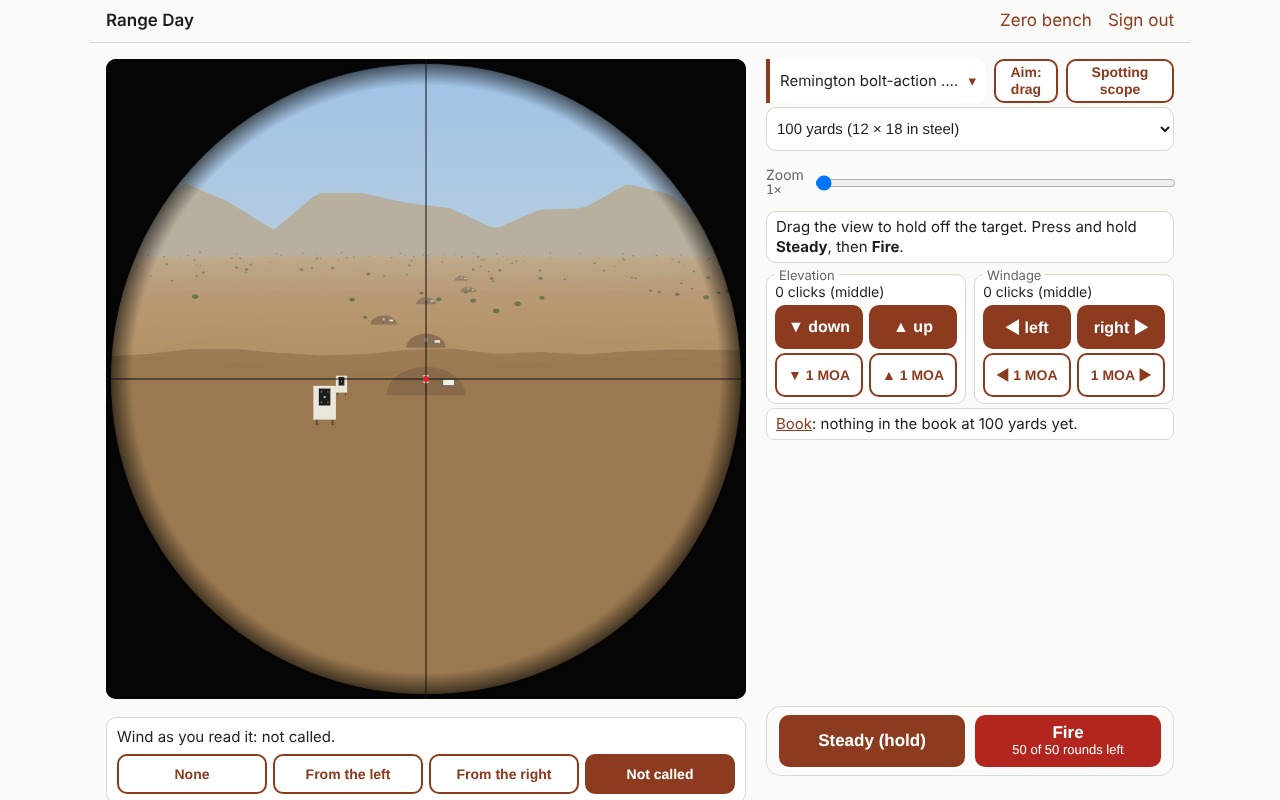
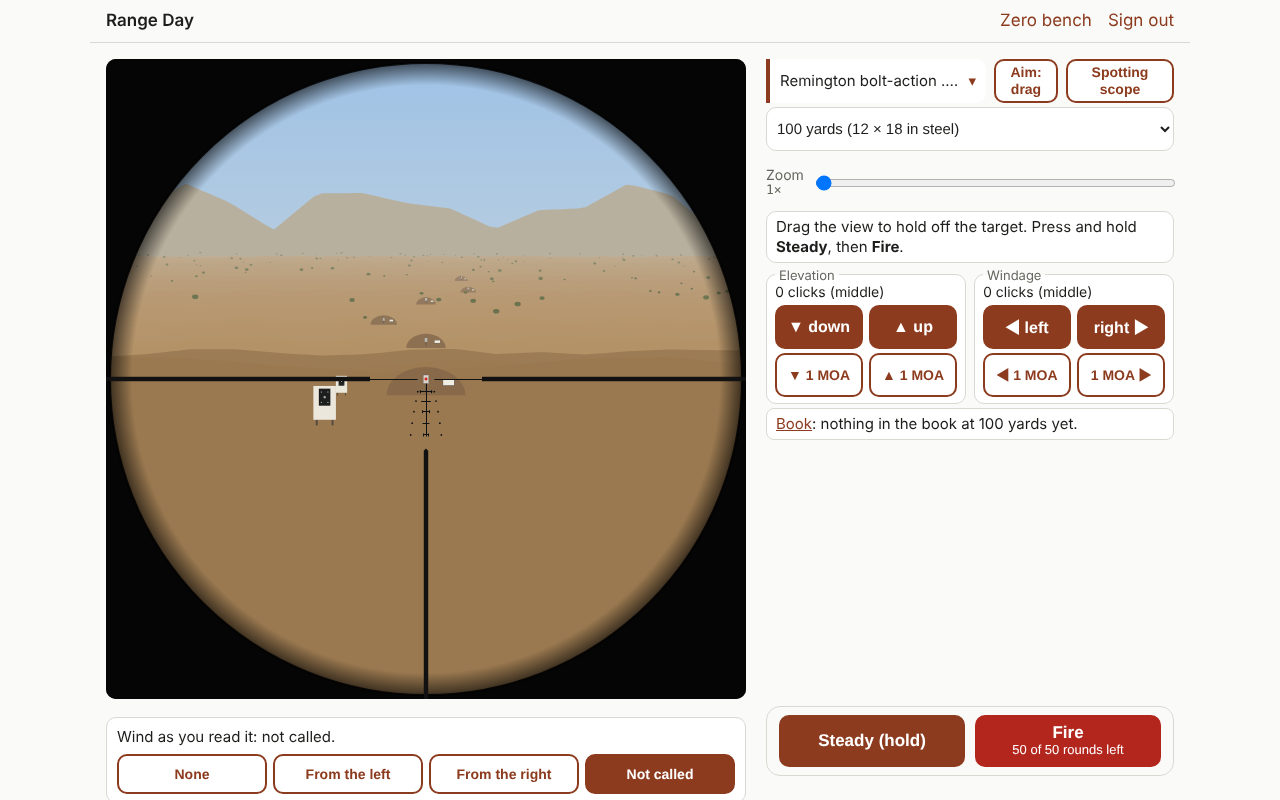
The .22's scope carries the ACSS 22LR G2 reticle, every mark measured from Primary Arms' reticle manual
Claude-Session: https://claude.ai/code/session_018WqoWHd7FdBSYmviRwmy4t

Changed region(s): [[0.3125, 0.5625, 0.3438, 0.8438], [0.0938, 0.4688, 0.3438, 0.5], [0.375, 0.4688, 0.5625, 0.5]]

diff --git a/test/scope22.test.js b/test/scope22.test.js
@@ -37,8 +37,15 @@ test('range-day-eighteen steps 1 to 3: the CLx\'s figures are the maker\'s, each
   assert.equal(S.tubeMm, 30);
   for (const k of ['clickMoa', 'windageClickMoa', 'clicks', 'tubeMm']) assert.match(r[k].source.url, /primaryarms\.com/, `${k} is the maker's figure`);
   for (const end of ['low', 'high']) { assert.ok(r.zoom[end].source.url); assert.ok(r.fovFtAt100[end].source.url); }
-  assert.equal(S.reticle.focalPlane, 'second'); assert.equal(S.reticle.trueAtPower, 6); assert.equal(S.reticle.centerDotMoa, 2);
-  assert.match(S.reticle.marksNotDrawn, /posts/);
+  assert.equal(S.reticle.kind, 'ladder'); assert.equal(S.reticle.focalPlane, 'second'); assert.equal(S.reticle.trueAtPower, 6);
+  // the reticle from the maker's drawing: five stadia going down, each narrower than the one above, its wind dots further out; the
+  // 125- and 175-yard stadia are 4.3 in at their distance (the manual's clay pigeon), the scale every other mark was read at
+  const st = S.reticle.stadia;
+  assert.deepEqual(st.map((x) => x.makerLabel), ['100 y', '125 y', '150 y', '175 y', '200 y']);
+  for (let i = 1; i < st.length; i++) { assert.ok(st[i].belowMoa > st[i - 1].belowMoa && st[i].widthMoa < st[i - 1].widthMoa && st[i].windDotOutMoa > st[i - 1].windDotOutMoa, `stadia ${i}`); }
+  for (const [i, yd] of [[1, 125], [3, 175]]) assert.ok(Math.abs(st[i].widthMoa - 4.3 / (E.inchesPerMoa(yd))) < 0.002, `the ${yd}-yard stadia is 4.3 in at ${yd} yards`);
+  assert.deepEqual(st.map((x) => x.barbell), [true, false, true, false, true]);
+  for (const k of ['centerDotMoa', 'lineMoa', 'postFromMoa', 'stemTopMoa', 'lowerPostTipMoa', 'trueAtPower']) assert.match(r.reticle[k].source.url, /primaryarmsoptics\.com/, `${k} is from the maker's reticle manual`);
   assert.ok(!r.collection, 'not one of the scope collection');
   // the height: the sourced saddle, half the maker's tube, the estimated receiver top
   const own = raw.rifles[RIFLE].scopeMount.ownScope;
@@ -142,7 +149,7 @@ test('range-day-eighteen verify 4: a click is the maker\'s click: 8 clicks up an
   await context.close();
 });
 
-test('range-day-eighteen verify 5: the glass is the maker\'s glass: the drawn view at 1x and 6x is the maker\'s field of view; the 2 MOA dot is 2 MOA at 6x and six times that at 1x (second focal plane)', { skip }, async () => {
+test('range-day-eighteen verify 5: the glass is the maker\'s glass: the drawn view at 1x and 6x is the maker\'s field of view; the reticle is the maker\'s at 6x and six times its angles at 1x (second focal plane): the center dot, and the stadia read off the canvas at 6x', { skip }, async () => {
   const { page, context, errors } = await signedIn();
   await line(page);
   const lines = [];
@@ -153,11 +160,20 @@ test('range-day-eighteen verify 5: the glass is the maker\'s glass: the drawn vi
     lines.push(`at ${m}x: view ${fov.toFixed(3)} MOA across, the maker's ${S.fovFtAt100[end]} ft at 100 yards is ${want.toFixed(3)} MOA`);
     assert.ok(Math.abs(fov - want) < 1e-9, lines[lines.length - 1]);
     const g = await page.evaluate(() => RangeDayLine.geometry);
-    assert.equal(g.crosshair, true);
+    assert.equal(g.reticleKind, 'ladder'); assert.equal(g.sfpScale, S.reticle.trueAtPower / m);
     const dotMoa = g.centerDotPx / g.pxPerMoa;
     assert.ok(Math.abs(dotMoa - (S.reticle.centerDotMoa * S.reticle.trueAtPower) / m) < 1e-9, `the dot at ${m}x covers ${dotMoa} MOA`);
     lines.push(`  the dot covers ${dotMoa.toFixed(2)} MOA (${g.centerDotPx.toFixed(2)} px)`);
   }
+  // at 6x, the stadia read off the reticle drawn alone: each dark row at its depth, as wide as its figure (within 1.5 px)
+  await page.evaluate(() => RangeDayLine.setZoom(6));
+  const probe = await page.evaluate((stadia) => {
+    const c = RangeDayLine.reticleAlone(), g = c.getContext('2d'), k = RangeDayLine.geometry.pxPerMoa, n = c.width, mid = n / 2, px = g.getImageData(0, 0, n, n).data;
+    const dark = (x, y) => { const i = (Math.round(y) * n + Math.round(x)) * 4; return px[i] < 128; };
+    return stadia.map((s) => { const y = mid + s.belowMoa * k; let best = 0; for (const dy of [-1, 0, 1]) { let a = mid, b = mid; while (dark(a - 1, y + dy)) a--; while (dark(b + 1, y + dy)) b++; best = Math.max(best, b - a + 1); } return { want: s.widthMoa * k, got: best }; });
+  }, S.reticle.stadia);
+  for (const [i, p] of probe.entries()) assert.ok(Math.abs(p.got - p.want) <= 1.5, `${S.reticle.stadia[i].makerLabel}: drawn ${p.got} px, the figure ${p.want.toFixed(1)} px`);
+  lines.push(`at 6x the stadia drawn ${probe.map((p) => `${p.got} px (figure ${p.want.toFixed(1)})`).join(', ')}`);
   console.log('  ' + lines.join('\n  '));
   assert.deepEqual(errors, []);
   await context.close();
@@ -194,7 +210,7 @@ test('range-day-eighteen verify 6: old records are untouched: with a zero, a sig
   await context.close();
 });
 
-test('range-day-eighteen verify 7: no drop is given: at the bench and on the line with the scope and no shots fired, no distance or come-up worked out from a flight appears; the reticle carries no figure', { skip }, async () => {
+test('range-day-eighteen verify 7: no drop is given: at the bench and on the line with the scope and no shots fired, no distance or come-up worked out from a flight appears; the reticle\'s holds stand as the maker\'s angles with no figure written on the glass', { skip }, async () => {
   const { page, context, errors } = await signedIn();
   const FLIGHT = /\b(drop|come-?up|holdover|hold over|point of impact|will land|lands? at|should hit)\b/i;
   await bench(page);
@@ -205,7 +221,7 @@ test('range-day-eighteen verify 7: no drop is given: at the bench and on the lin
     const text = (await page.textContent('main')).replace(/Show the conditions \([^)]*\)/, ''); // the setting's own label names what it shows
     assert.doesNotMatch(text, FLIGHT, `the line at ${z}x`);
     const g = await page.evaluate(() => RangeDayLine.geometry);
-    assert.equal(g.marksPx, null, 'no hold marks on the reticle'); assert.equal(g.reticleKind, 'crosshair');
+    assert.equal(g.reticleTexts, 0, 'no figure or word is written on the glass'); assert.equal(g.reticleKind, 'ladder');
   }
   assert.deepEqual(errors, []);
   await context.close();

diff --git a/public/line.js b/public/line.js
@@ -488,7 +488,7 @@
       g.strokeStyle = 'rgba(0,0,0,0.85)'; g.lineWidth = 2; g.beginPath(); g.arc(cx, cy, cx - 4, 0, Math.PI * 2); g.stroke();
       if (spotting) return; // the spotting scope has no reticle
       if (sight.reticle && sight.reticle.kind === 'mil-dot') return drawMilDot(g, size, k, cx, cy);
-      if (sight.reticle && (sight.reticle.marksMoaBelowZero || ['chevron', 'tree', 'bdc'].includes(sight.reticle.kind))) return drawReticle(g, size, k, cx, cy);
+      if (sight.reticle && (sight.reticle.marksMoaBelowZero || ['chevron', 'tree', 'bdc', 'ladder'].includes(sight.reticle.kind))) return drawReticle(g, size, k, cx, cy);
       if (sight.reticle && sight.reticle.kind === 'crosshair') return drawCrosshair(g, size, k, cx, cy);
       return;
     }
@@ -769,11 +769,34 @@
     out.push({ t: 'line', x1: 0, y1: r.lowerPostFromMoa, x2: 0, y2: EDGE, w: r.postMoa, minPx: 2, c: INK, vertical: true });
     return out;
   }
+  // The ACSS 22LR G2 (range-day-eighteen, from Primary Arms' reticle manual for the CLx 1-6x24, measured from its drawing): a red
+  // dot centerDotMoa across; the fine line (lineMoa thick) from fineLineFromMoa to postFromMoa each side, then the heavy posts
+  // (postMoa) to the edge; no line above the center; the post below from stemTopMoa (the 75-yard hold) to stemToMoa; each stadia
+  // line widthMoa wide at its belowMoa, a barbell's end ticks barbellTickMoa tall, a wind dot windDotMoa across windDotOutMoa
+  // either side; the lower heavy post from its pointed tip (lowerPostTipMoa) widening to full thickness at lowerPostShoulderMoa,
+  // down to the edge. No number or word is drawn: the maker's labels explain the drawing and are not on the glass.
+  function ladderMarks(r) {
+    const LIT = LIT_COLORS[r.litColor] || LIT_COLORS.red, out = [], w = r.lineMoa, EDGE = 400, P = r.postMoa / 2;
+    out.push({ t: 'dot', x: 0, y: 0, d: r.centerDotMoa, c: LIT });
+    for (const s of [-1, 1]) {
+      out.push({ t: 'line', x1: s * r.fineLineFromMoa, y1: 0, x2: s * r.postFromMoa, y2: 0, w, minPx: 1, c: INK });
+      out.push({ t: 'line', x1: s * r.postFromMoa, y1: 0, x2: s * EDGE, y2: 0, w: r.postMoa, minPx: 2, c: INK });
+    }
+    out.push({ t: 'line', x1: 0, y1: r.stemTopMoa, x2: 0, y2: r.stemToMoa, w: r.stemWidthMoa || w, minPx: 1, c: INK, vertical: true });
+    for (const st of r.stadia) {
+      const half = st.widthMoa / 2;
+      out.push({ t: 'line', x1: -half, y1: st.belowMoa, x2: half, y2: st.belowMoa, w, minPx: 1, c: INK });
+      if (st.barbell) for (const s of [-1, 1]) out.push({ t: 'line', x1: s * (half - w / 2), y1: st.belowMoa - r.barbellTickMoa / 2, x2: s * (half - w / 2), y2: st.belowMoa + r.barbellTickMoa / 2, w, minPx: 1, c: INK, vertical: true });
+      for (const s of [-1, 1]) out.push({ t: 'dot', x: s * st.windDotOutMoa, y: st.belowMoa, d: r.windDotMoa, c: INK });
+    }
+    out.push({ t: 'poly', pts: [[0, r.lowerPostTipMoa], [P, r.lowerPostShoulderMoa], [P, EDGE], [-P, EDGE], [-P, r.lowerPostShoulderMoa]], c: INK });
+    return out;
+  }
   let reticleCache = null;
   const reticleMarks = () => {
     if (reticleCache) return reticleCache;
     const r = sight.reticle;
-    reticleCache = r.kind === 'tree' ? treeMarks(r) : r.kind === 'bdc' ? bdcMarks(r) : r.kind === 'chevron' ? chevronMarks(r) : acssMarks(r);
+    reticleCache = r.kind === 'tree' ? treeMarks(r) : r.kind === 'bdc' ? bdcMarks(r) : r.kind === 'chevron' ? chevronMarks(r) : r.kind === 'ladder' ? ladderMarks(r) : acssMarks(r);
     return reticleCache;
   };
   // Draws the marks at the view's scale. A mark thinner than its minPx is drawn minPx wide, on whole pixels when it is that
@@ -1415,7 +1438,7 @@
     setPicture(v) { picture = v; measuring = null; if (v === 'plain') showPlain(''); else return startScene(v); },
     // range-day-fourteen: the reticle alone, drawn by the same drawing at the view's present scale onto a blank canvas the size of
     // the view, so the tests can read its marks without the ground behind them.
-    reticleAlone() { const size = view.size, c = document.createElement('canvas'); c.width = size; c.height = size; const g = c.getContext('2d'); g.fillStyle = '#fff'; g.fillRect(0, 0, size, size); if (sight.reticle && (sight.reticle.marksMoaBelowZero || ['chevron', 'tree', 'bdc'].includes(sight.reticle.kind))) drawReticle(g, size, pxPerMoa(), size / 2, size / 2); return c; },
+    reticleAlone() { const size = view.size, c = document.createElement('canvas'); c.width = size; c.height = size; const g = c.getContext('2d'); g.fillStyle = '#fff'; g.fillRect(0, 0, size, size); if (sight.reticle && (sight.reticle.marksMoaBelowZero || ['chevron', 'tree', 'bdc', 'ladder'].includes(sight.reticle.kind))) drawReticle(g, size, pxPerMoa(), size / 2, size / 2); return c; },
     // The drawn geometry, in pixels at the view's scale: what the tests compare with the data's angles.
     get geometry() {
       const k = pxPerMoa();
@@ -1432,6 +1455,8 @@
         crosshair: Boolean(sight.reticle && sight.reticle.kind === 'crosshair'),
         // range-day-eighteen: a crosshair's center dot as drawn at the power in use (a second-focal-plane dot grows as the power falls)
         centerDotPx: sight.reticle && sight.reticle.centerDotMoa ? sight.reticle.centerDotMoa * sfpScale() * k : null,
+        // the number of words or figures written on the glass by the marks drawing (the .22's ladder has none)
+        reticleTexts: sight.reticle && (sight.reticle.marksMoaBelowZero || ['chevron', 'tree', 'bdc', 'ladder'].includes(sight.reticle.kind)) ? reticleMarks().filter((m) => m.t === 'text').length : 0, sfpScale: sfpScale(),
         // range-day-fourteen: the reticle's kind (the tests read its marks from the canvas against the data themselves)
         reticleKind: sight.reticle ? sight.reticle.kind : null };
     } };

diff --git a/lib/data.js b/lib/data.js
@@ -59,6 +59,9 @@ const KINDS = {
   seeall: ['clickMoa', 'windageClickMoa', 'clicks', 'reticle.triangleWidthMoa', 'reticle.triangleHeightMoa', 'reticle.lineBelowTipMoa', 'reticle.fieldWidthMoa'],
 };
 const TREE = ['lineMoa', 'centerDotMoa', 'openingMoa', 'breakMoa', 'hashSpacingMoa', 'shortHashMoa', 'longHashMoa', 'numberedEveryMoa', 'mainLineToMoa', 'upperStem.toMoa', 'upperStem.midBarMoa', 'stemBars.everyFourMoa', 'stemBars.midMoa', 'holdoverEveryMoa', 'holdoverToMoa', 'holdoverHalfWidthPerMoa', 'dotRowSmallMoa', 'dotRowLargeMoa', 'stemToMoa', 'labelHeightMoa'];
+// range-day-eighteen: the ACSS 22LR G2 ladder (the .22's own scope) needs every figure its drawing is built from, each stadia its place,
+// its width and its wind dots' spread.
+const LADDER = ['centerDotMoa', 'lineMoa', 'fineLineFromMoa', 'postFromMoa', 'postMoa', 'stemTopMoa', 'stemToMoa', 'barbellTickMoa', 'windDotMoa', 'lowerPostTipMoa', 'lowerPostShoulderMoa', 'stadia', 'litColor', 'focalPlane', 'trueAtPower'];
 const BDC = ['centerDotMoa', 'circleInnerMoa', 'circleOuterMoa', 'circleGapDeg', 'lineMoa', 'fineLineToMoa', 'postFromMoa', 'postMoa', 'postMarkMoa', 'postMarkLengthMoa', 'hashSpacingMoa', 'shortHashMoa', 'longHashMoa', 'numbers', 'dropMarks', 'dropLongMoa', 'dropShortMoa', 'ladderFromMoa', 'ladderToMoa', 'ladderMarkMoa', 'ladderNumberedMoa', 'ladderNumbers', 'lowerPostFromMoa', 'labelHeightMoa', 'litColor'];
 function checkSights(sights) {
   const bad = [];
@@ -80,6 +83,10 @@ function checkSights(sights) {
     if (s.reticle && s.reticle.kind === 'bdc') {
       for (const p of BDC) if (s.reticle[p] === undefined) bad.push(`sights.${id}.reticle: a bdc reticle needs ${p}`);
       (s.reticle.dropMarks || []).forEach((m, i) => { if (!m || m.belowMoa === undefined) bad.push(`sights.${id}.reticle.dropMarks[${i}]: each drop mark needs belowMoa`); });
+    }
+    if (s.reticle && s.reticle.kind === 'ladder') {
+      for (const p of LADDER) if (s.reticle[p] === undefined) bad.push(`sights.${id}.reticle: a ladder reticle needs ${p}`);
+      (s.reticle.stadia || []).forEach((m, i) => { for (const p of ['belowMoa', 'widthMoa', 'windDotOutMoa']) if (!m || m[p] === undefined) bad.push(`sights.${id}.reticle.stadia[${i}]: each stadia needs ${p}`); });
     }
     if (s.reticle && s.reticle.kind === 'tree') for (const p of TREE) if (at(s.reticle, p) === undefined) bad.push(`sights.${id}.reticle: a tree reticle needs ${p}`);
     if (s.reticle && s.reticle.kind === 'chevron' && s.reticle.dropLines) {

diff --git a/README.md b/README.md
@@ -99,11 +99,14 @@ clicks, then works out the drop and the wind for each distance himself.
   from 1 to 6 power; one click moves the strike half a minute of angle
   (about half an inch at 100 yards), 120 clicks each way; the view is the
   maker's 113.5 ft across at 100 yards at 1 power and 18.8 ft at 6 power.
-  Its reticle is the maker's duplex: a fine crosshair with a red 2-minute
-  dot at the center (the outer heavy posts are not drawn: no figure for
-  them could be read). The dot is in the second focal plane, so it is 2
-  minutes of angle across at 6 power and covers six times that at 1
-  power. It sits in Warne 731M dovetail rings, 1.49 in over the bore
+  Its reticle is the maker's ACSS 22LR G2, cut for .22 ammunition: a
+  red dot at the center, a fine line turning into heavy posts at the
+  sides, and below the dot a post with five hold lines and a wind dot
+  either side of each, every mark measured from the maker's reticle
+  manual. No distance is written on the glass: which line is which is
+  for the player to learn. The reticle is in the second focal plane, so
+  its marks are the maker's angles at 6 power and stand six times as
+  far apart at 1 power. It sits in Warne 731M dovetail rings, 1.49 in over the bore
   (the rings' maker's figure, half the 30 mm tube, and an estimate for
   the receiver), and starts unzeroed. It is the .22's own scope, not one
   of the collection, so the workbench offers no mount for it.
